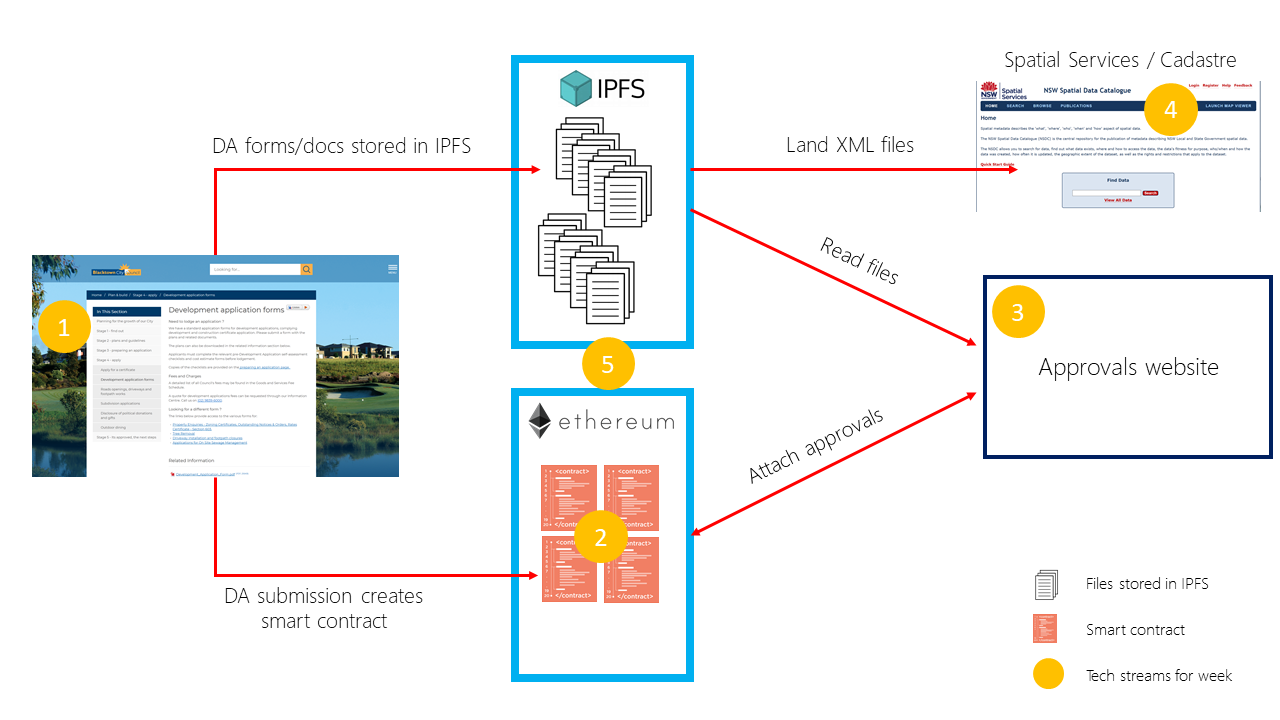
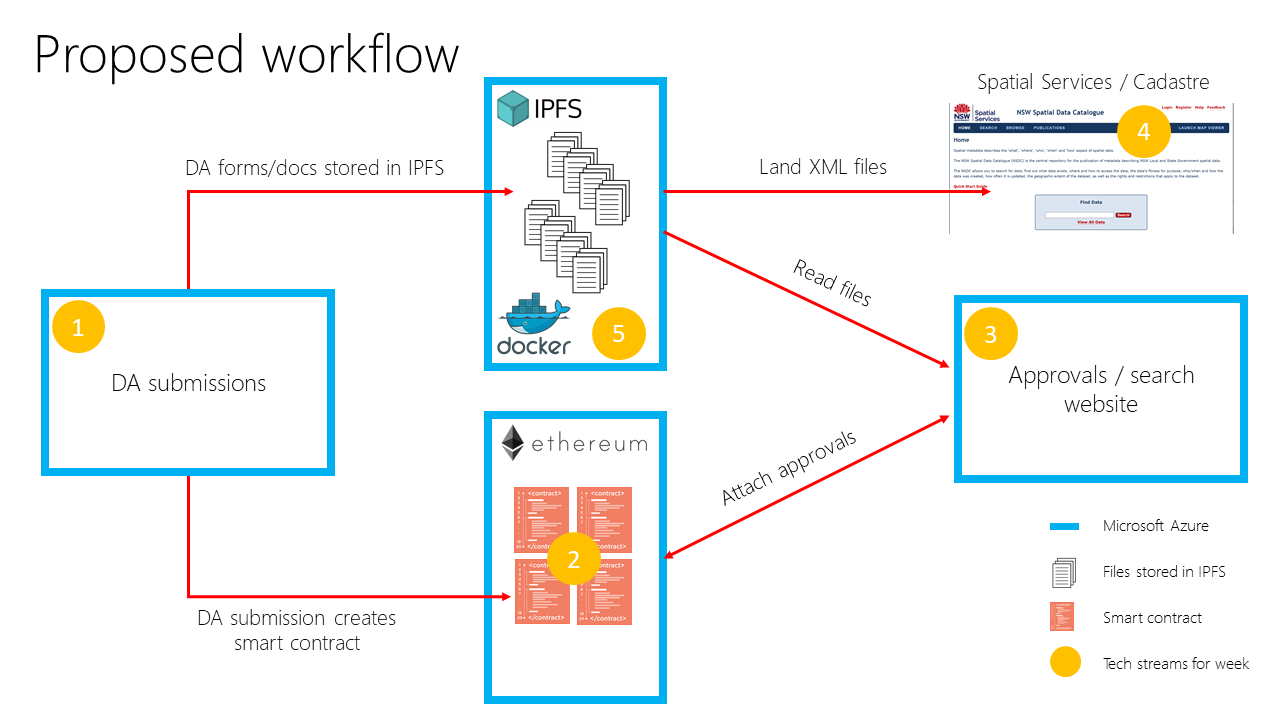
Updated readme with process step-by-step and resources

diff --git a/readme.md b/readme.md
@@ -6,7 +6,7 @@ Artefacts from a hack done with the NSW Land Titles Office, the CRC for Spatial 
 
 The process for lodging a (property) development application in NSW varies from Local Government Area to Local Goverment Area, but there are some common features and problems.
 
-1. The property devekoper lodges a Development Application (DA) with the appropriate Local Goverment Authority (LGA). A (varying) number of documents are attached in support of the application including:
+1. The property developer lodges a Development Application (DA) with the appropriate Local Goverment Authority (LGA). A (varying) number of documents are attached in support of the application including:
     1. Geographic details
     1. Non-geographic details
 1. The LGA approves the application with a number of conditions including:
@@ -18,3 +18,35 @@ The process for lodging a (property) development application in NSW varies from 
 [workflowdiagram]: ./images/NSW-DFSI-proposed-workflow.png "Proposed Workflow"
 
 ![Proposed Workflow][workflowdiagram]
+
+## Property DA approval process on Blockchain
+### Plan phase  
+1. Property Developer submits DA in submission web portal 
+1. Smart contract deployed to Azure Ethereum Network that represents the specific DA and forms/other relevant documents uploaded to IPFS
+    * **Proposed layer updated**
+1. LGA notified of new DA submission. LGA then notifies relevant utilities and authorities (e.g. fire service)
+1. Utilities and authorities can view DA, approve plans, make comments (requirements), attach documents and approve - all new transactions on the blockchain submitted from web portal 
+
+### Design phase 
+1. Property Developer notified of state changes, comments and new attachments (notice of requirements) to view for that DA
+(possible back and forth here between property developer and ulilties/authorities to gain approvals)
+    * **Proposed layer updated**  
+1. Utilities and LGA can view DA in web portal and attach **Approval to Proceed** and **Construction Certificate** (respectively) - documents uploaded to IFPS and new transactions submitted on the blockchain 
+1. Developer notified of state change and can start construction 
+
+### Deliver phase
+1. Property Developer submits new transaction to the blockchain through web portal for utility inspections 
+1. Utilities/authorities are notified of state change and start off-chain process to inspect and then connect infrastructure
+1. Developer submits final plan to Land Registry Services through web portal for Plan Registration 
+    * **Proposed layer updated** 
+
+ 
+
+## Relevant templates and resources 
+
+* [Ethereum Azure Resource Manager template](https://github.com/EthereumEx/ethereum-arm-templates/tree/master/ethereum-consortium) to make it easy to spin up a Blockchain network will work on it's own or that could easily be connected to an existing network.
+* A how-to guide on setting up your [Windows 10 PC for Ethereum development](https://davidburela.wordpress.com/2017/05/12/how-to-install-truffle-testrpc-on-ubuntu-or-windows-10-with-windows-subsystem-for-linux/)
+* [Short guide](https://github.com/tikyau/IPFS-On-Azure) to setup Docker environment for IPFS on Azure  
+* [Docker image](https://hub.docker.com/r/delon1192/ipfs-upload-media/) for IPFS image/media upload  
+* [IPFS](https://ipfs.io/#how), a peer-to-peer hypermedia protocol
+to make the web faster, safer, and more open
